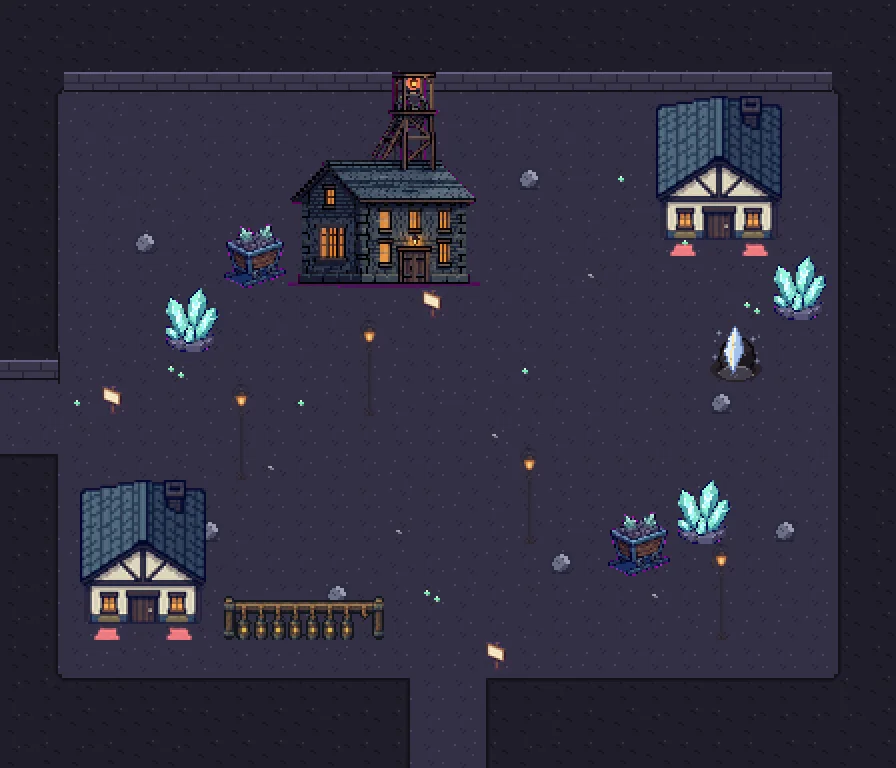
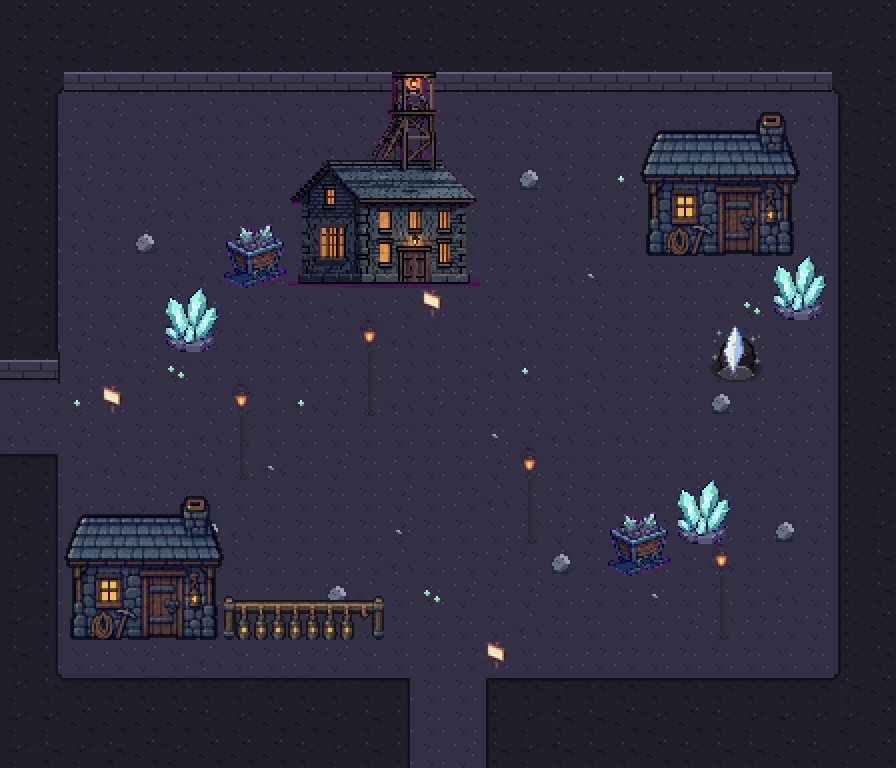
Cinderhead: miners' row cottages replace the Tinderwick stand-ins (+ chimney smoke)
One gpt-image-2.5 master (5x5, same footprint), swapped in via
worldcraft/east.py; a CHIMNEYS row so the stacks smoke. Fen II's island
stooks nudged off the landing tile.

Claude-Session: https://claude.ai/code/session_017mS62t1FuX8QFA9stJSe8y

Changed region(s): [[0.0625, 0.625, 0.25, 0.8438], [0.7188, 0.125, 0.9062, 0.3438]]

diff --git a/src/game/systems/world/Ambience.ts b/src/game/systems/world/Ambience.ts
@@ -78,6 +78,8 @@ export const CHIMNEYS: Record<string, { x: number; y: number }> = {
   tinderwick_shop: { x: 61, y: 2 },
   pearlmoor_inn: { x: 60, y: 2 },
   vesper_crossroads_inn: { x: 58, y: 6 },
+  // east
+  cinderhead_miner_cottage: { x: 66, y: 8 },
 };
 
 /** Map kinds that are "under the sky" (the starfall default + bird fly-overs). */

diff --git a/tools/maps/worldcraft/east.py b/tools/maps/worldcraft/east.py
@@ -105,7 +105,7 @@ PLACEMENTS: dict[str, dict] = {
             decor("reeds_h", "saltreach_cattails", (3, 3), 2, 2),
             decor("reeds_i", "saltreach_cattails", (13, 19), 2, 2),
             decor("reeds_j", "saltreach_cattails", (20, 21), 2, 2),
-            decor("isle_stooks", "saltreach_reed_stooks", (15, 19), 2, 2),
+            decor("isle_stooks", "saltreach_reed_stooks", (14, 21), 2, 2),
             decor("eel_trap_a", "saltreach_eel_trap", (20, 12), 2, 2),
             decor("eel_trap_b", "saltreach_eel_trap", (11, 31), 2, 2),
             decor("drowned_lamp_a", "saltreach_sunken_lamp", (24, 20), 1, 3),
@@ -239,6 +239,9 @@ PLACEMENTS: dict[str, dict] = {
         }) + [npc("fault_miner", (24, 12), "miner_woman", "script.cinderhead_fault_miner",
                   facing="left", movement="look_around")],
         "objects": [
+            # the miners' row cottages replace the Tinderwick stand-ins (same footprint)
+            obj("cottage_a", "cinderhead_miner_cottage", (2, 15), 5, 5, overhang=3),
+            obj("cottage_b", "cinderhead_miner_cottage", (20, 3), 5, 5, overhang=3),
             obj("harl_hooks", "cinderhead_lamp_hooks", (7, 18), 5, 2, overhang=1,
                 walk_under=True),
             obj("fault_cinder", "fallenstar_cinder_star", (22, 10), 2, 2, solid=False,
